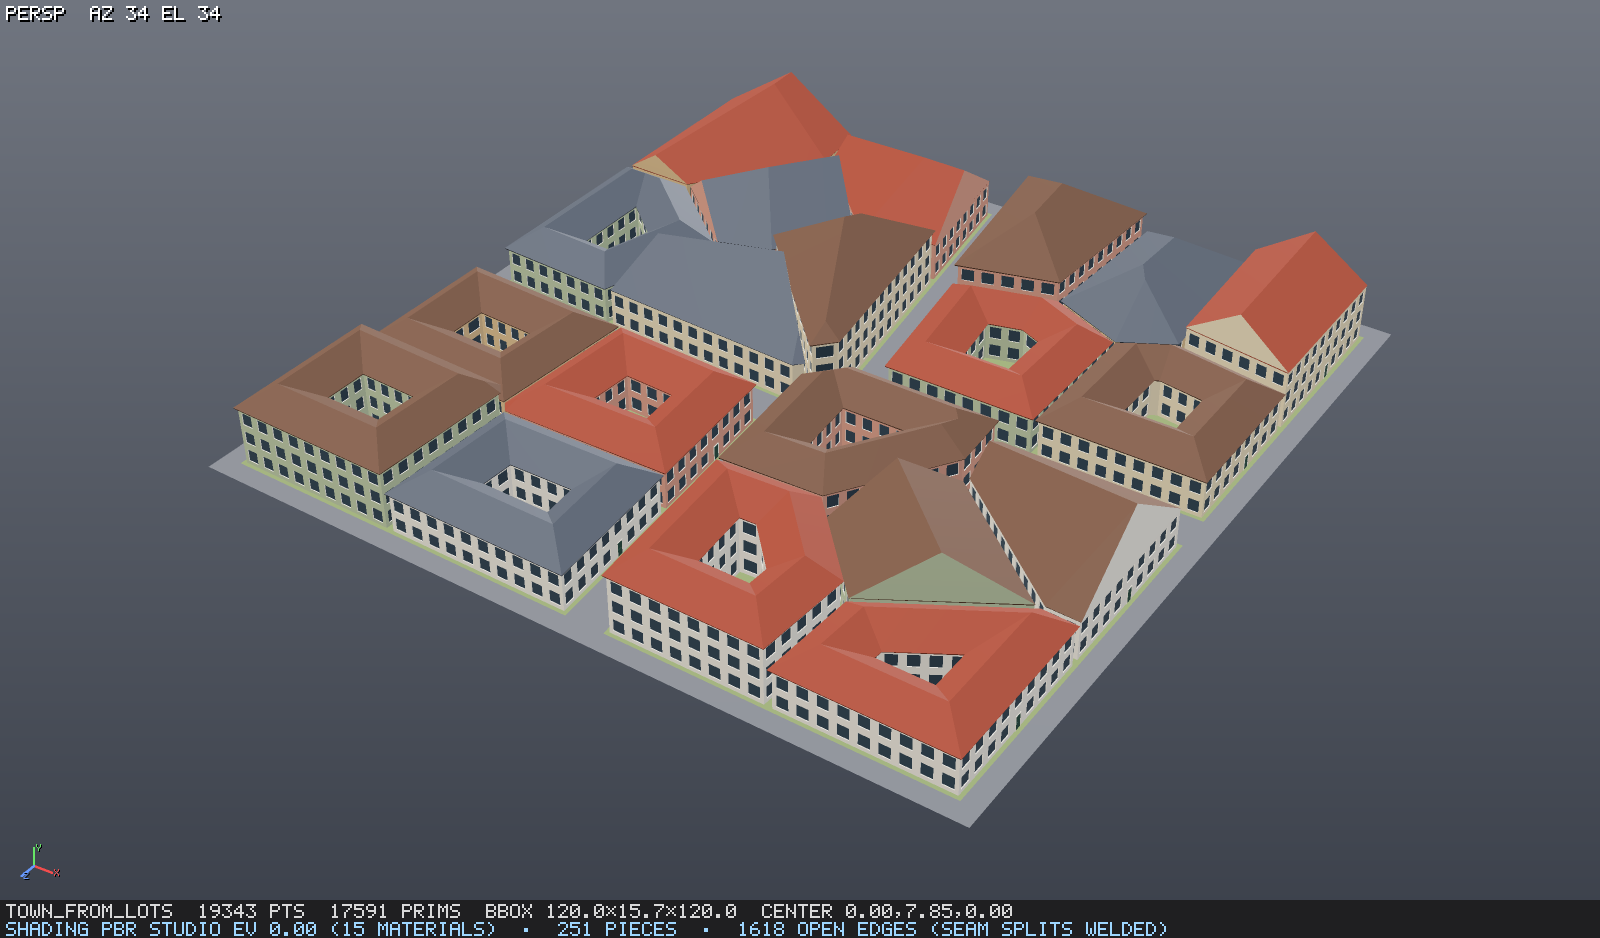
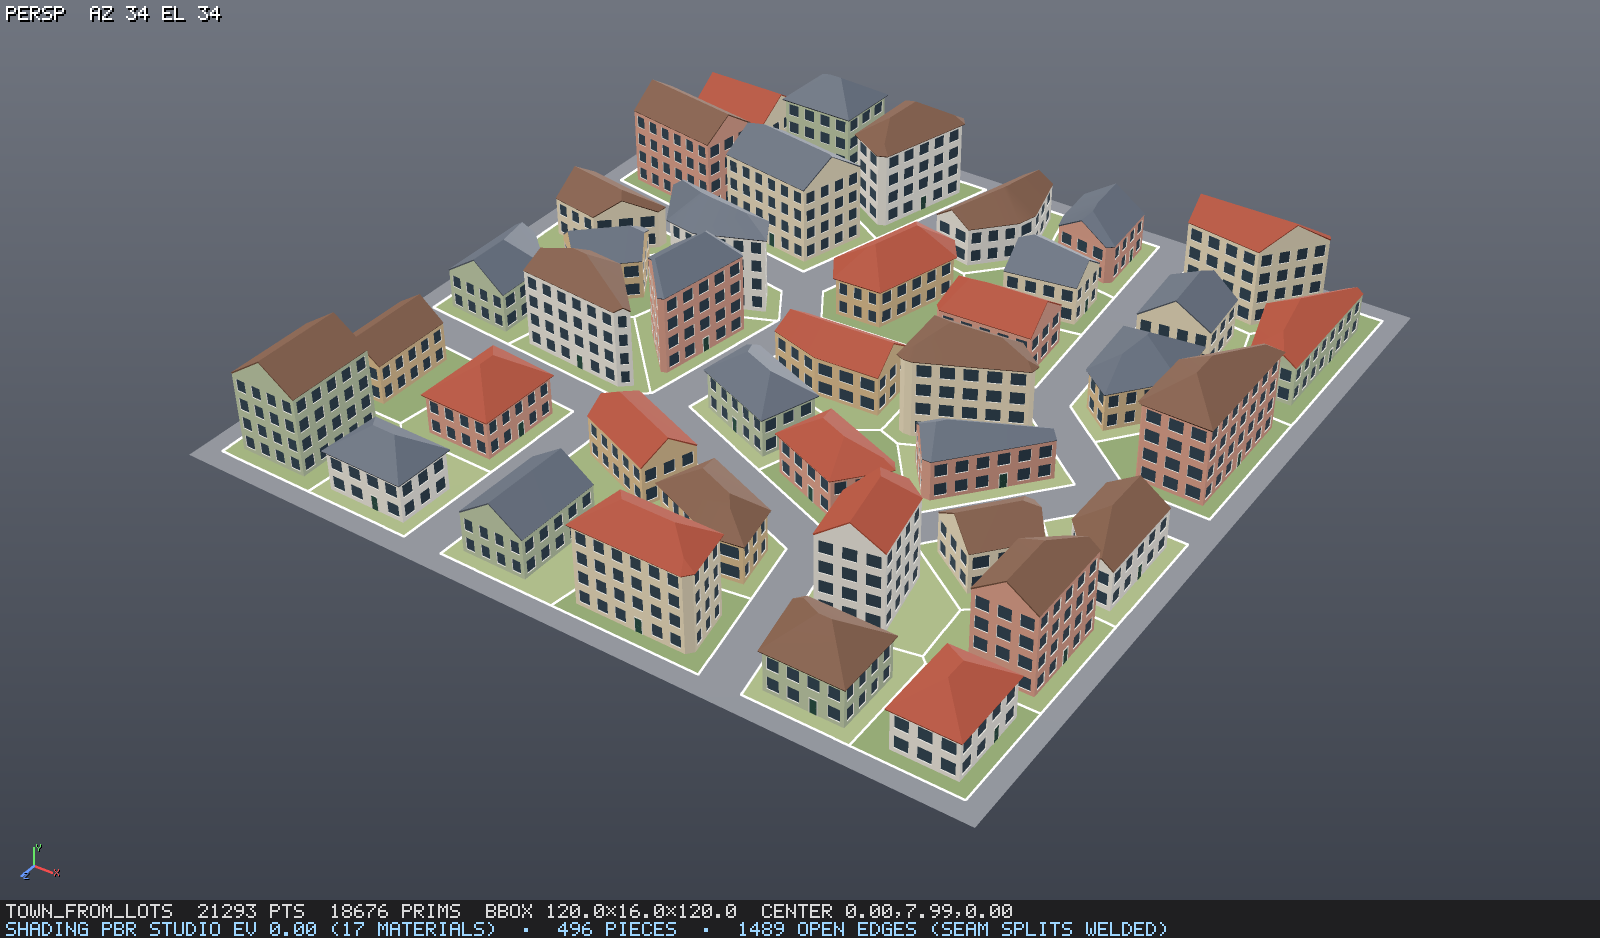
town_from_lots: houses in yards on smaller lots, clearly mixed heights
Every house now stands back from its lot's edges in a yard, faces the
street and keeps clear of its neighbours, so the lots read and no roof
meets another. The card's defaults become 40 lots and 2 extra floors: at
20 lots and 1 floor the quarter read as big houses in big gardens of one
height, not the dense quarter of different heights it describes.
Engine workarounds carry a note naming the issue they wait for.

diff --git a/examples/town_from_lots.md b/examples/town_from_lots.md
@@ -5,10 +5,10 @@ follows its shape, with a roof that fits.
 
 ## In
 - area: 60–400 m, default 120. Side of the square quarter.
-- lots: 4–60, default 20. How many lots the quarter is cut into.
+- lots: 4–60, default 40. How many lots the quarter is cut into.
 - street_width: 4–12 m, default 6. Width of the streets between the lots.
 - floors: 1–5, default 2. Floors of an ordinary house.
-- extra_floors: 0–3, default 1. Floors a few houses get on top, at random.
+- extra_floors: 0–3, default 2. Floors a few houses get on top, at random.
 - roof_pitch: 15–60°, default 35. Slope of every roof.
 - seed: 0–9999, default 1. Changes the plan and which houses grow taller.
 
